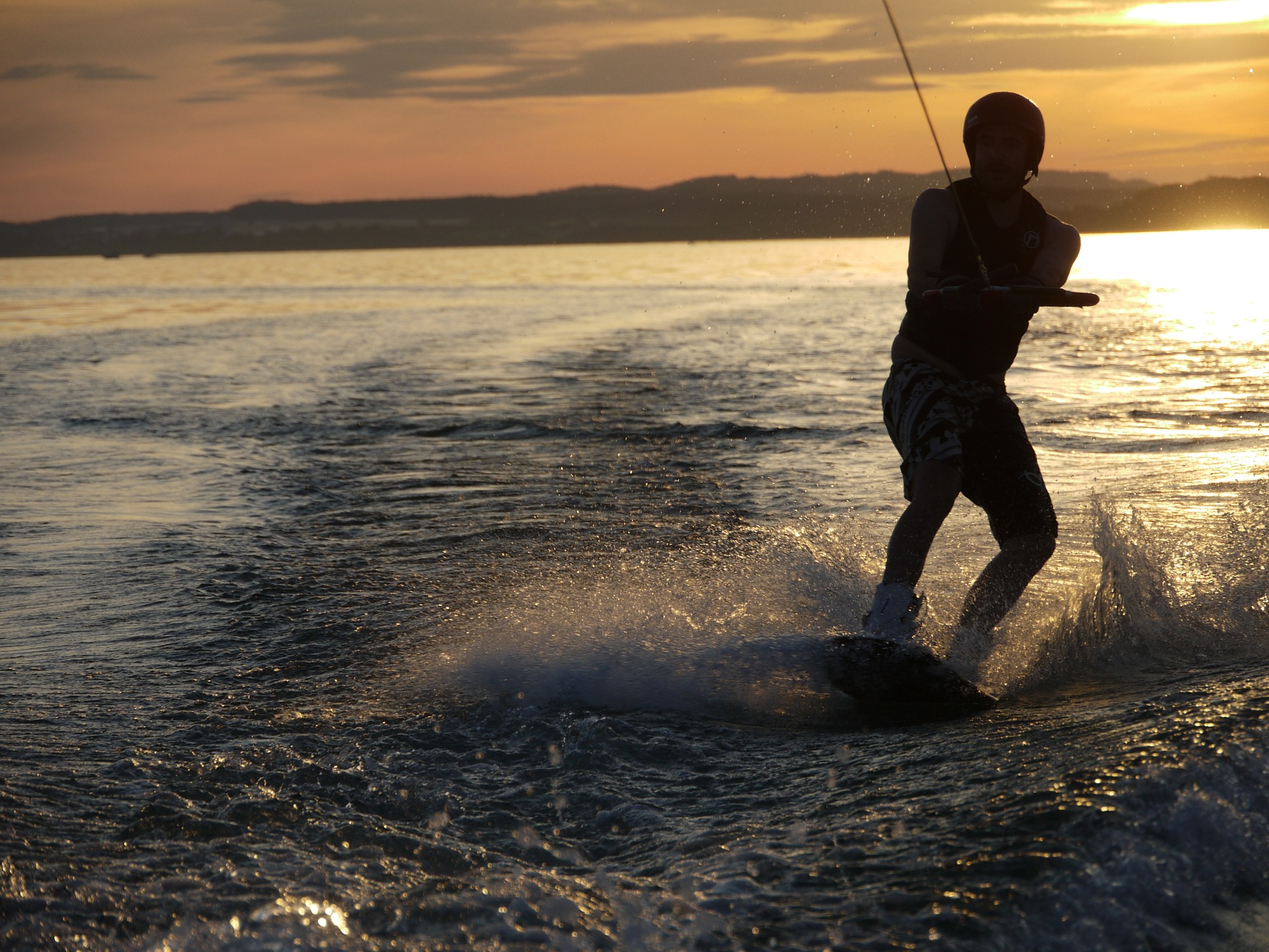
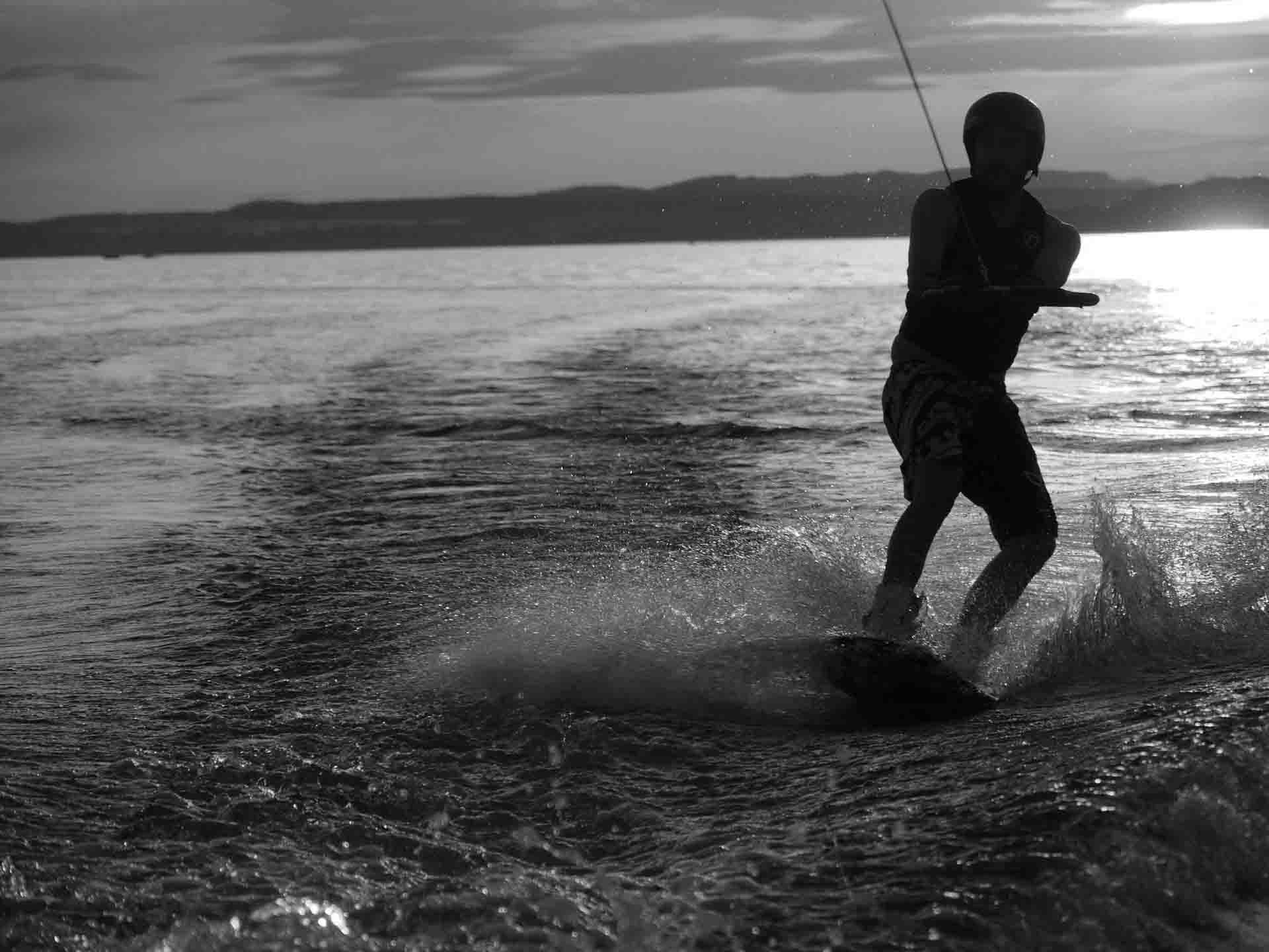
Update to main video
Remove video from main section and add hero image
Apply tint to images and optimize images.
Updated css stylesheet

diff --git a/css/style.css b/css/style.css
@@ -15,43 +15,88 @@ h6 {
   text-transform: uppercase;
 }
 
-p {
+body {
   font-family: "Roboto", sans-serif;
+  color: white;
+  text-transform: uppercase;
 }
 
 a {
+  color: inherit;
   text-decoration: none;
   font-family: "Roboto", sans-serif;
 }
 
+a:link {
+  color: inherit;
+}
+
 .container {
-  width: 80%;
+  width: 90%;
   margin: 0 auto;
+  text-align: center;
+}
+
+.btn {
+  background-color: rgba(0, 0, 0, 0.75);
+  padding: 10px 20px;
+}
+
+nav {
+  position: fixed;
 }
 
 nav ul {
   display: flex;
   justify-content: space-around;
-  align-content: center;
 }
 
 nav li {
   list-style-type: none;
-  text-transform: uppercase;
+  padding-top: 10px;
+}
+
+.call-to-action {
+  background-color: #333;
+  text-align: center;
+  display: flex;
+  flex-direction: row;
+  justify-content: center;
+  align-items: center;
+  height: 50px;
+}
+.call-to-action p {
+  margin-left: 10px;
 }
 
 #homesection {
   position: relative;
   min-height: 100vh;
-  overflow: hidden;
+}
+
+.homesection__img {
+  background: url(../img/lake-887828_1920.jpg) top no-repeat;
+  background-size: cover;
+  position: absolute;
+  width: 100%;
+  height: 100%;
+  z-index: -1;
+}
+.homesection__div--title {
+  padding: 280px 30px;
+  line-height: 0.7;
+}
+
+.homesection--title1 {
+  font-size: 8rem;
+}
+
+.homesection--title2 {
+  font-size: 4.5rem;
 }
 /*=====================================WELCOME SECTION====================================*/
 .parallax {
-  background: linear-gradient(
-      rgba(37, 162, 197, 0.45),
-      rgba(37, 162, 197, 0.45)
-    ),
-    url(../img/kalisa-veer-684040-unsplash.jpg) 100% 100% no-repeat;
+  background: url(../img/kalisa-veer-684040-unsplash.jpg) 100% 100% no-repeat;
   background-size: cover;
 }
 .inner {
@@ -89,8 +134,6 @@ nav li {
 .aboutevents--btn {
   background-color: rgba(0, 0, 0, 0.75);
   padding: 10px 20px;
-  text-transform: uppercase;
-  color: white;
 }
 .aboutevents--btn:link {
   color: white;
@@ -159,8 +202,7 @@ nav li {
 }
 /*=====================================INSTRUCTORS SECTION====================================*/
 #instructors {
-  background: linear-gradient(rgba(64, 64, 64, 0.8), rgba(64, 64, 64, 0.8)),
-    url(../img/lake-887828_1920.jpg) top center no-repeat;
+  background: url(../img/lake-887828_1920.jpg) top center no-repeat;
   background-size: cover;
   width: 100%;
   height: 400px;

diff --git a/index.html b/index.html
@@ -10,8 +10,8 @@
     <link rel="stylesheet" type="text/css" href="css/style.css" />
   </head>
   <body>
-    <nav>
-      <div class="container">
+    <div class="container">
+      <nav class="container">
         <ul>
           <li class="nav_list--item"><a href="#">Welcome</a></li>
           <li class="nav_list--item"><a href="#">About</a></li>
@@ -19,16 +19,21 @@
           <li class="nav_list--item"><a href="#">Photos</a></li>
           <li class="nav_list--item"><a href="#">News</a></li>
         </ul>
-      </div>
-    </nav>
-
+      </nav>
+    </div>
     <div id="homesection">
-      <video class="main_video_element" autoplay muted>
-        <source src="img/Wakeboarding_on_the_Lake.mp4" type="video/mp4" />
-      </video>
+      <div class="homesection__img"></div>
       <div class="container">
-        <h1 class="homesection--title">Wakeboarding</h1>
+        <div class="homesection__div--title">
+          <h1 class="homesection--title1">Wake</h1>
+          <h2 class="homesection--title2">boarding</h2>
+        </div>
       </div>
+    </div>
+
+    <div class="call-to-action">
+      <h2>Start to the journey now</h2>
+      <p><a href="#" class="btn">Join Now</a></p>
     </div>
 
     <div id="welcome" class="parallax">
@@ -61,7 +66,7 @@
             In metus vulputate eu scelerisque felis imperdiet proin fermentum
             leo. Arcu vitae elementum curabitur vitae nunc sed velit.
           </p>
-          <a href="#" class="aboutevents--btn">Read More</a>
+          <a href="#" class="btn">Read More</a>
         </div>
         <div class="aboutevents__div aboutevents__div--two">
           <h3 class="aboutevents--title">Events</h3>
@@ -79,7 +84,7 @@
             integer feugiat scelerisque. Interdum posuere lorem ipsum dolor sit
             amet.
           </p>
-          <a href="#" class="aboutevents--btn">Read More</a>
+          <a href="#" class="btn">Read More</a>
         </div>
       </div>
       <!--Aboutevents Container-->
